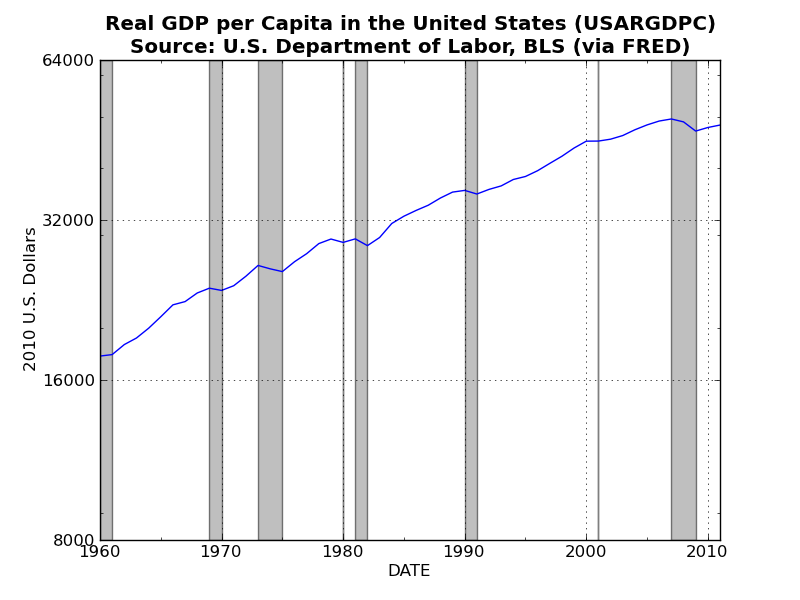
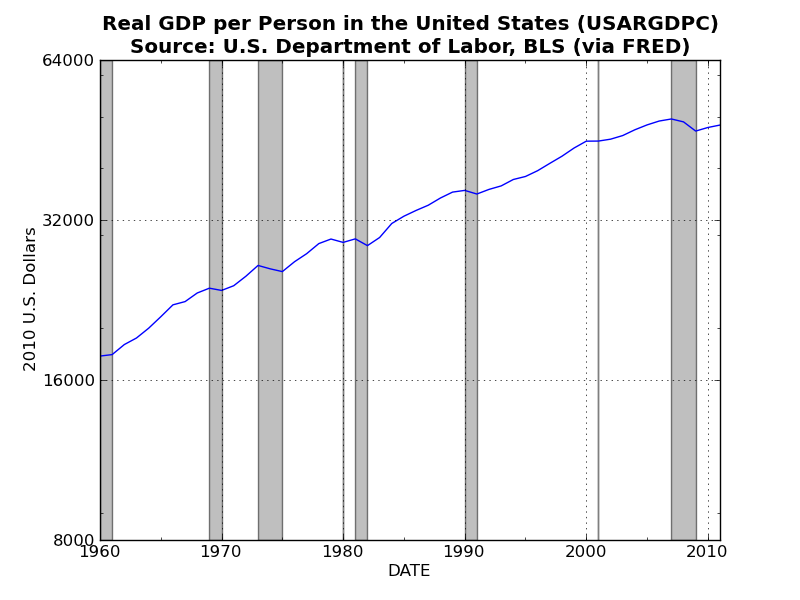
Created first Graph of the Day!

Changed region(s): [[0.125, 0.0, 0.9062, 0.06]]

diff --git a/Graphs of the day/2012-12-19.py b/Graphs of the day/2012-12-19.py
@@ -18,12 +18,13 @@ ax.set_yscale('log')
 ax.set_ylim(8000, 64000)
 ax.set_yticks([8000, 16000, 32000, 64000])
 ax.set_yticklabels([8000, 16000, 32000, 64000])
-ax.set_title("Real GDP per Capita in the United States (USARGDPC)\nSource: U.S. Department of Labor, BLS (via FRED)", weight='bold')
+ax.set_title("Real GDP per Person in the United States (USARGDPC)\nSource: U.S. Department of Labor, BLS (via FRED)", weight='bold')
 ax.grid()
 
 # load the NBER recession dates
 NBER_Dates = pd.read_csv('NBER Dates.txt')
 
+# for loop generates recession bands!
 for i in range(NBER_Dates.shape[0]):
     ax.axvspan(NBER_Dates['Peak'][i], NBER_Dates['Trough'][i], facecolor='grey', alpha=0.5)
     
